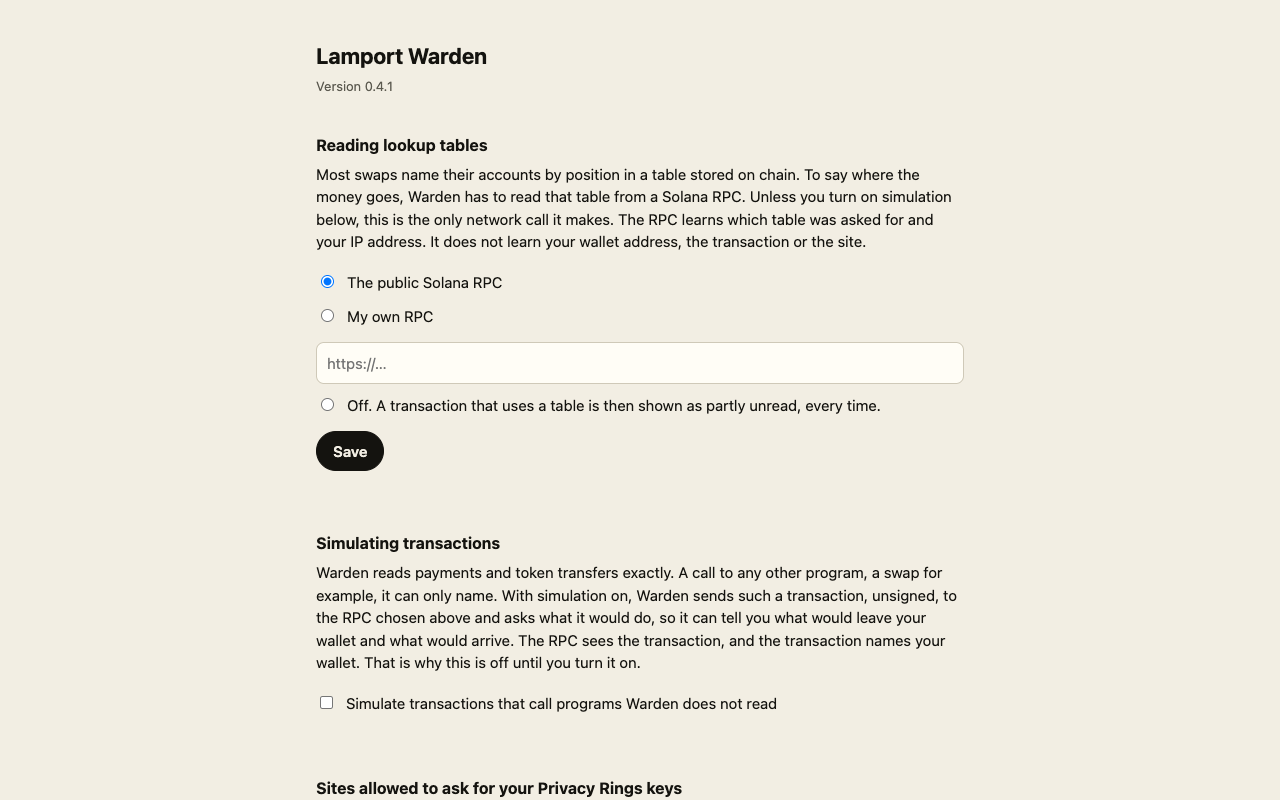
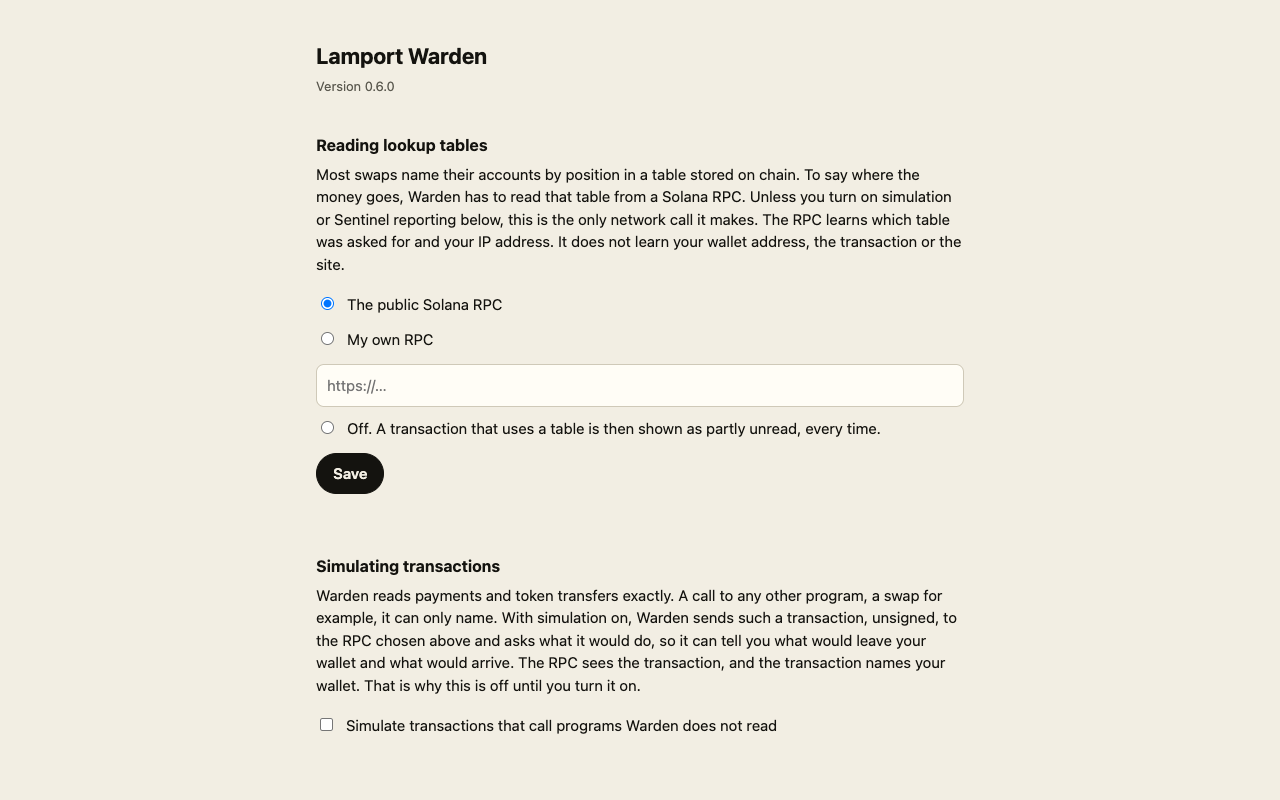
v0.6.0: Sentinel in the extension, and on the Warden page (#13)
The version that carries the Sentinel panel and the opt-in report. The Warden
page links to Sentinel and says what it can and cannot do; the store
screenshots are retaken from this build, and store/listing.md lists the steps
to submit it.

Changed region(s): [[0.25, 0.6562, 0.75, 0.9375], [0.25, 0.25, 0.75, 0.625], [0.25, 0.9688, 0.5312, 1.0]]

diff --git a/site/index.html b/site/index.html
@@ -100,6 +100,7 @@
   </a>
   <nav class="nav" aria-label="Site">
     <a href="#doors">Wallets</a>
+    <a href="/sentinel/">Sentinel</a>
     <a href="https://github.com/Lamport-Robotics/lamport-warden" rel="noopener">Source</a>
   </nav>
 </header>
@@ -115,7 +116,7 @@
           <a class="btn solid" href="https://github.com/Lamport-Robotics/lamport-warden" rel="noopener">Get the developer preview</a>
           <a class="btn" href="#doors">Which wallets it covers</a>
         </div>
-        <p class="status">Version 0.5. Open source. Not in the Chrome Web Store yet.</p>
+        <p class="status">Version 0.6. Open source. Not in the Chrome Web Store yet.</p>
       </div>
       <div class="stage" aria-label="What Warden shows when it blocks a request">
         <div class="card">
@@ -173,13 +174,30 @@
     </div>
   </section>
 
+  <section class="sec" id="sentinel">
+    <div class="inner two">
+      <div>
+        <h2>Sentinel keeps watching <span>after you sign.</span></h2>
+        <p>Warden reads a request before your wallet signs it. Sentinel is the other half: a service that watches the wallet afterwards, around the clock, and tells you in one sentence when something looks wrong.</p>
+        <p>You sign in with a wallet, not an email. Watching three wallets is free.</p>
+        <div class="cta"><a class="btn solid" href="/sentinel/">Open Sentinel</a></div>
+      </div>
+      <div>
+        <h2>What it can and cannot do.</h2>
+        <p>It tells you when a token account is handed to someone else, a payment goes to a look-alike address, or a spending permission appears that you did not give. An alert is a plain sentence with no link in it.</p>
+        <p>It cannot stop a thief who empties a wallet in a single transaction, and nobody watching can. Moving your tokens to safety for you is planned, and is not available yet.</p>
+      </div>
+    </div>
+  </section>
+
   <section class="sec">
     <div class="inner two">
       <div>
         <h2>What leaves your browser.</h2>
-        <p>There is no account, no Lamport server and no model. Your history stays in the extension's storage on your machine.</p>
+        <p>There is no account and no model, and by default nothing goes to Lamport. Your history stays in the extension's storage on your machine.</p>
         <p>By default Warden makes one kind of network call. Most swaps name their accounts by position in a table stored on chain, and to say where the money goes Warden reads that table from a Solana RPC. The RPC learns which table was asked for and your IP address, not your wallet, the transaction or the site. You can point it at your own RPC, or turn it off.</p>
         <p>You can also turn on simulation. Warden then sends a swap, unsigned, to your RPC and tells you what would leave your wallet and what would arrive. The RPC sees that transaction, so it stays off until you choose it.</p>
+        <p>If you use Sentinel, you can let Warden tell it which signatures were yours, so it stays quiet about your own payments. That sends a wallet's address and a transaction's signature, and nothing else. It is off until you turn it on.</p>
       </div>
       <div>
         <h2>Advice, not a lock.</h2>

diff --git a/store/listing.md b/store/listing.md
@@ -3,15 +3,19 @@
 What to paste into the developer dashboard. Keep this file in step with what is submitted.
 
 Item ID: `dmlhclkglnpkdhidfjfgjfdjnblnalea`, created on 2026-11-13 from `lamport-warden-0.5.0.zip`. It is a
-**draft**: every field below is filled in and saved, and it is not submitted. It was submitted once that day
-and the review was cancelled, to wait for the version that has the paid tier (Sentinel) built in.
+**draft** and is not submitted. It was submitted once that day and the review was cancelled, to wait for the
+version that has Sentinel built in. That version is 0.6.0.
 
-The draft in the dashboard still has the 0.5.0 texts. The description, the storage justification and the
-data-usage note below have changed since (Sentinel reporting), so paste them again before submitting.
+To submit 0.6.0:
 
-When that version is ready: upload its zip on the Package tab, set Payments on the Distribution tab to
-"Contains in-app purchases" if the extension then offers the subscription, and submit. Google flags the host
-permission for an in-depth review, so expect it to take longer than a few days.
+1. Package tab: upload `lamport-warden-0.6.0.zip` (`pnpm package`).
+2. Store listing tab: paste the description below again (it now mentions Sentinel) and replace the three
+   screenshots with the ones in `store/screenshots/` (retaken from 0.6.0).
+3. Privacy tab: paste the storage justification and the data-usage note below again.
+4. Distribution tab: Payments. The extension itself sells nothing; it links to the Sentinel page, where the
+   paid plan is sold once checkout is open. Choose "Contains in-app purchases" if checkout is open when you
+   submit, "Free of charge" if it is not.
+5. Submit. Google flags the host permission for an in-depth review, so expect longer than a few days.
 
 ## Store listing tab
 

diff --git a/README.md b/README.md
@@ -1,6 +1,6 @@
 # Lamport Warden
 
-Browser extension, v0.5. Not released: it is not in the Chrome Web Store (a draft listing is filled in and
+Browser extension, v0.6. Not released: it is not in the Chrome Web Store (a draft listing is filled in and
 waits for the version that carries Sentinel), and nobody outside Lamport has reviewed it. Load it unpacked to
 try it.
 
